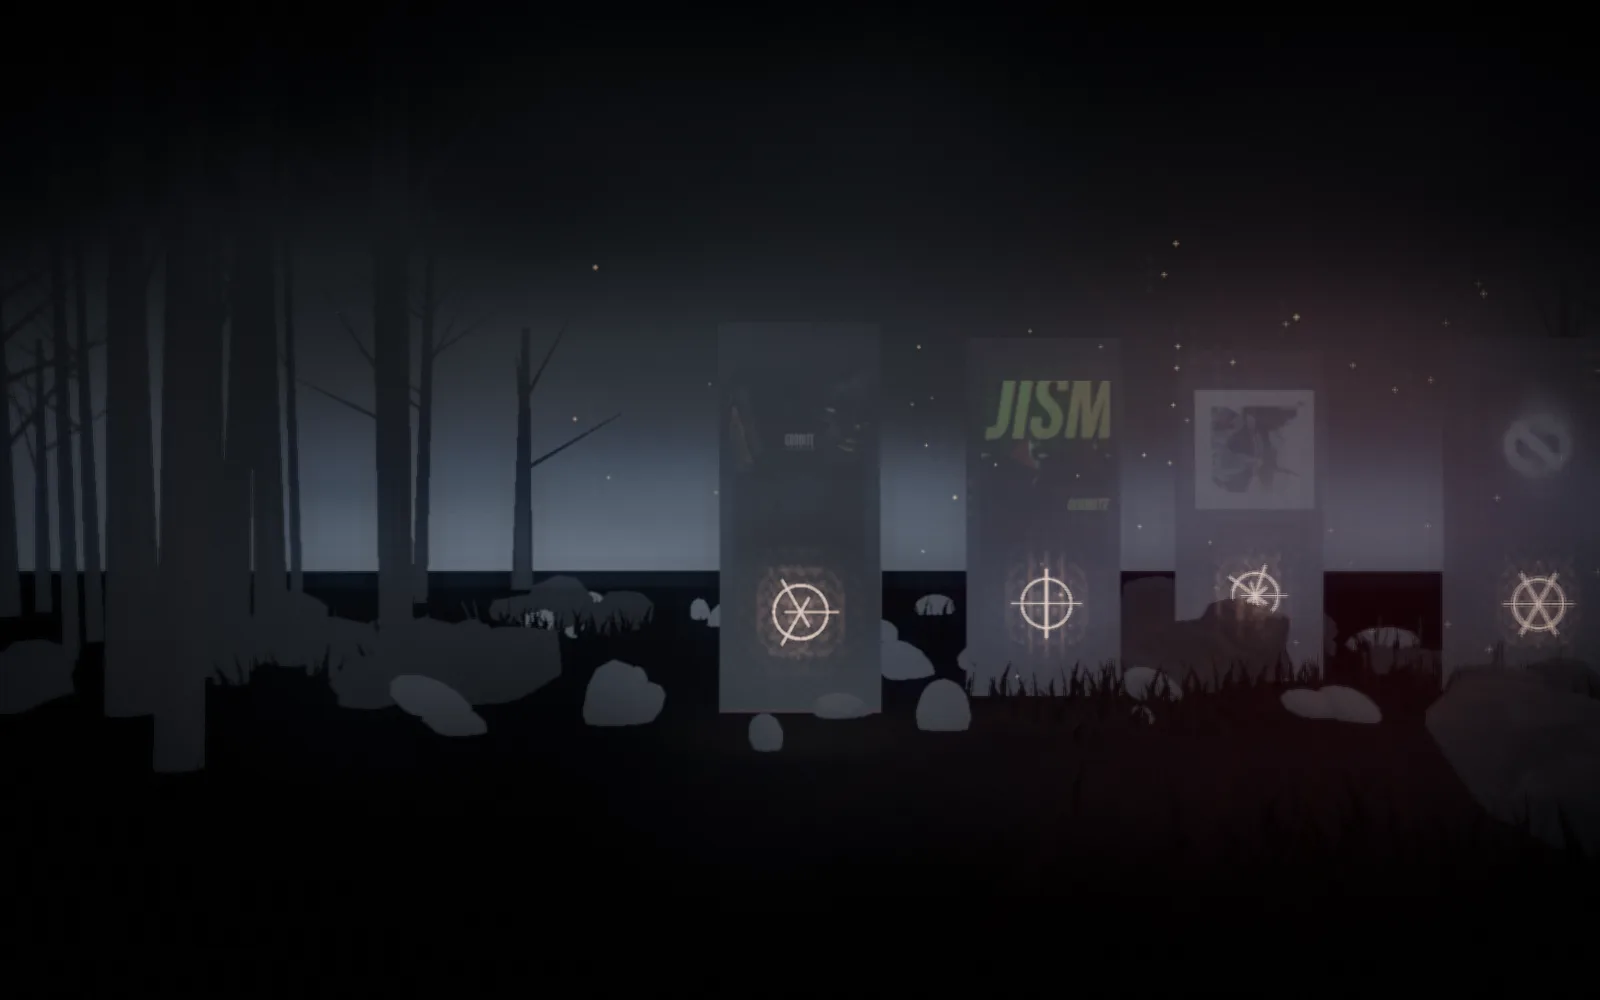
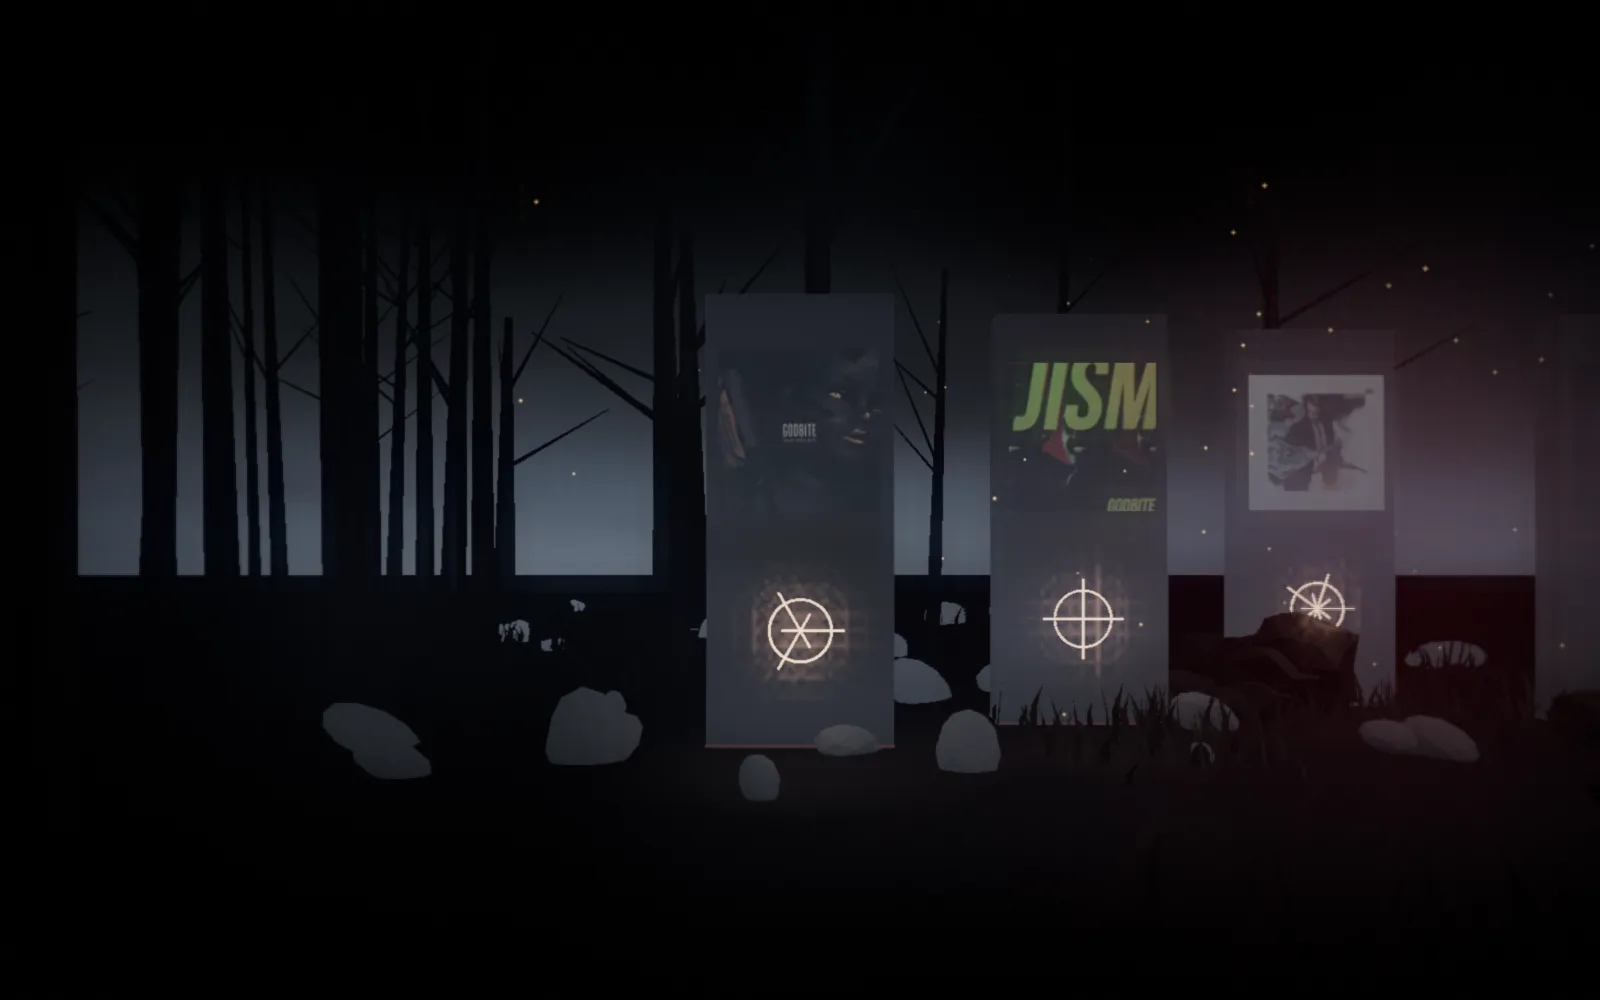
Adaptive cinema screen navigation, recording-specific tracklists, and tree clearance on dynamic routes

diff --git a/src/main.ts b/src/main.ts
@@ -3,10 +3,10 @@ import '@fontsource/bodoni-moda/latin-ext-500.css';
 import '@fontsource/ibm-plex-mono/latin-400.css';
 import '@fontsource/ibm-plex-mono/latin-ext-400.css';
 import './style.css';
-import { asset, copy, films, releases, socials } from './content';
+import { asset, copy, films, releases, socials, tracklists } from './content';
 import type { Chapter, Language } from './content';
 import { Ambient } from './ambient';
-import { SCENE_ANCHORS, chapterPresentation } from './journey';
+import { SCENE_ANCHORS, activeRecording, chapterPresentation } from './journey';
 import type { World } from './world';
 
 const $ = <T extends HTMLElement = HTMLElement>(selector: string) => document.querySelector<T>(selector)!;
@@ -18,6 +18,7 @@ const reducedMotion = matchMedia('(prefers-reduced-motion: reduce)');
 let language: Language = 'en';
 try { if (localStorage.getItem('godbite-language') === 'pl') language = 'pl'; } catch { /* Storage can be unavailable in private browser contexts. */ }
 let selectedRelease = 0;
+let currentRecording = -1;
 let selectedFilm = films[0];
 
 let lastInvoker: HTMLElement | null = null;
@@ -55,9 +56,21 @@ releases.forEach((release,index)=>{
   const number=document.createElement('span'),title=document.createElement('span'),year=document.createElement('span');
   number.className='release-list-no';number.textContent=String(index+1).padStart(2,'0');
   title.className='release-list-title';title.textContent=release.title;
+  title.id='release-label-'+release.id;
   year.className='release-list-year';year.textContent=String(release.year)+' ↗';
   button.dataset.release=release.id;button.append(number,title,year);
-  button.addEventListener('click',()=>openRelease(index));item.append(button);releaseList.append(item);
+  const drawer=document.createElement('div'),inner=document.createElement('div'),tracks=document.createElement('ol');
+  drawer.className='release-track-drawer';drawer.inert=true;drawer.setAttribute('aria-hidden','true');
+  inner.className='release-track-inner';tracks.className='release-tracks';tracks.setAttribute('aria-labelledby',title.id);
+  (tracklists[release.id]??[]).forEach(([name,duration],number)=>{
+    const row=document.createElement('li'),position=document.createElement('span'),label=document.createElement('span'),time=document.createElement('span');
+    position.className='track-number';position.textContent=String(number+1).padStart(2,'0');
+    label.className='track-title';label.textContent=name;
+    time.className='track-duration';time.textContent=duration??'';
+    row.append(position,label,time);tracks.append(row);
+  });
+  inner.append(tracks);drawer.append(inner);
+  button.addEventListener('click',()=>openRelease(index));item.append(button,drawer);releaseList.append(item);
 });
 films.forEach((film,index)=>{
   const button=document.createElement('button'),title=document.createElement('span'),number=document.createElement('span');
@@ -77,6 +90,19 @@ function updateRelease() {
   if(release.spotify)container.append(link('Spotify',release.spotify));
   container.append(link('Bandcamp',release.bandcamp));
   $('#release-position').textContent=String(selectedRelease+1).padStart(2,'0')+' / 05';
+}
+function showRecording(index: number){
+  if(index===currentRecording)return;
+  currentRecording=index;
+  const release=releases[index];
+  document.body.dataset.currentRecording=release.id;
+  releaseList.querySelectorAll('button').forEach((button,item)=>{
+    button.classList.toggle('is-current',item===index);
+    button.parentElement!.classList.toggle('is-current',item===index);
+    const drawer=button.parentElement!.querySelector<HTMLElement>('.release-track-drawer')!;
+    drawer.inert=item!==index;drawer.setAttribute('aria-hidden',String(item!==index));
+    if(item===index)button.setAttribute('aria-current','true');else button.removeAttribute('aria-current');
+  });
 }
 function syncModalState() {
   const open=dialogs.some(dialog=>dialog.open);
@@ -101,6 +127,7 @@ function selectFilm(id: string) {
   $('#film-kind').textContent=copy[language][selectedFilm.kind==='video'?'film':'visualiser'];
   filmList.querySelectorAll('button').forEach(button=>button.setAttribute('aria-pressed',String(button.dataset.film===id)));
   world?.selectFilm(id);
+  if(stillMode)updateStill();
 }
 function openFilm(id: string) {
   selectFilm(id);
@@ -112,6 +139,12 @@ function openFilm(id: string) {
   frame.allow='autoplay; encrypted-media; picture-in-picture; fullscreen';frame.allowFullscreen=true;
   frame.referrerPolicy='strict-origin-when-cross-origin';
   $('#film-player').replaceChildren(frame);openDialog(filmDialog);
+}
+for(const [selector,direction] of [['#previous-film',-1],['#next-film',1]] as const){
+  $(selector).addEventListener('click',()=>{
+    const index=films.findIndex(film=>film.id===selectedFilm.id);
+    selectFilm(films[(index+direction+films.length)%films.length].id);
+  });
 }
 dialogs.forEach(dialog=>{
   dialog.querySelector<HTMLButtonElement>('[data-close]')!.addEventListener('click',()=>dialog.close());
@@ -166,6 +199,7 @@ function translate() {
   document.querySelectorAll<HTMLButtonElement>('[data-lang]').forEach(button=>button.setAttribute('aria-pressed',String(button.dataset.lang===language)));
   document.querySelector('.language-switch')!.setAttribute('aria-label',text.language);
   releaseList.setAttribute('aria-label',text.selectRelease);filmList.setAttribute('aria-label',text.chooseFilm);
+  $('#previous-film').setAttribute('aria-label',text.previousFilm);$('#next-film').setAttribute('aria-label',text.nextFilm);
   document.querySelectorAll('[data-close]').forEach(button=>button.setAttribute('aria-label',text.close));
   $('#previous-release').setAttribute('aria-label',text.previous);$('#next-release').setAttribute('aria-label',text.next);
   $('#chapter-name').textContent=text[chapterKeys[currentChapter]];
@@ -188,6 +222,11 @@ function progress(){
   return 3;
 }
 let scrollPending=false;
+function updateStill(){
+  const scene=chapters[currentChapter];
+  const image=scene==='cinema'&&selectedFilm.id!==films[0].id?'cinema-'+selectedFilm.id:scene;
+  still.style.backgroundImage='url("'+asset('images/'+image+'.webp')+'")';
+}
 function updateJourney() {
   scrollPending=false;
   const p=progress(),{index,opacity}=chapterPresentation(p);
@@ -207,7 +246,8 @@ function updateJourney() {
     if(anchor.dataset.nav===chapters[index])anchor.setAttribute('aria-current','location');
     else anchor.removeAttribute('aria-current');
   });
-  if(stillMode)still.style.backgroundImage='url("'+asset('images/'+chapters[index]+'.webp')+'")';
+  if(stillMode)updateStill();
+  if(!world)showRecording(activeRecording(p));
   world?.setProgress(p);ambient.setProgress(p);
 }
 function requestJourney() { if(!scrollPending){scrollPending=true;requestAnimationFrame(updateJourney);} }
@@ -260,8 +300,7 @@ async function startWorld() {
     const {World}=await import('./world');
     if(generation!==worldGeneration || reducedMotion.matches)return;
     world=new World({canvas:$<HTMLCanvasElement>('#world-canvas'),onFailure:useStills,onRelease:openRelease,onFilm:()=>openFilm(selectedFilm.id),onRecording:index=>{
-      document.body.dataset.currentRecording=releases[index].id;
-      releaseList.querySelectorAll('button').forEach((button,item)=>button.classList.toggle('is-current',item===index));
+      showRecording(index);
     }});
     stillMode=false;document.body.classList.remove('still-mode');
     world.setProgress(progress());world.setPaused(userPaused);

diff --git a/tests/journey.spec.ts b/tests/journey.spec.ts
@@ -42,6 +42,28 @@ test('five recordings, latest listening in two clicks and dialog keyboard behavi
   await expect(page.locator('#release-title')).toHaveText('Mir');
   await expect(page.locator('#art-credit')).toContainText('Artur Ciechorski');
 });
+
+for(const reducedMotion of ['no-preference','reduce'] as const){
+ test(`tracklist unfolds beneath the current recording (${reducedMotion})`,async({page})=>{
+  await page.emulateMedia({reducedMotion});await page.goto('./');
+  await page.locator('[data-nav=music]').click();await page.keyboard.press('Escape');
+  await expect(page.locator('.recording-panel')).toHaveCount(0);
+  for(const [index,title,count,first,duration] of [
+   [0,'Social Media Girls',1,'Social Media Girls','08:21'],[1,'JISM',3,'DICK PUMP','07:27'],
+   [2,'Mir',9,"Walkin' Phoenix",'05:28'],[3,'the Aristocrats',9,'David Lynch','05:08'],[4,'You can lead a horse EP',3,'you can lead a horse',''],
+  ] as const){
+   await page.evaluate(index=>{const music=document.getElementById('music')!.offsetTop,cinema=document.getElementById('cinema')!.offsetTop;window.scrollTo({top:music+(cinema-music)*index*.13/.84,behavior:'instant'});},index);
+   const current=page.locator('#release-list>li.is-current');
+   await expect(current.locator('.release-list-title')).toHaveText(title);
+   await expect(current.locator('.release-tracks li')).toHaveCount(count);
+   await expect(current.locator('.track-title').first()).toHaveText(first);
+   await expect(current.locator('.track-duration').first()).toHaveText(duration);
+   await expect(current.locator('.release-track-drawer')).toHaveAttribute('aria-hidden','false');
+   await expect(page.locator('.release-track-drawer[aria-hidden=false]')).toHaveCount(1);
+   if(index===2){await page.waitForTimeout(500);await page.screenshot({path:`test-results/track-drawer-${page.viewportSize()!.width}-${reducedMotion}.png`});}
+  }
+ });
+}
 test('all four films use the right player and closing removes playback',async({page})=>{
   await page.goto('./');await page.locator('[data-nav=cinema]').click();
   await expect(page.locator('.cinema-stage')).toBeVisible();
@@ -52,6 +74,31 @@ test('all four films use the right player and closing removes playback',async({p
     await expect(page.locator('#external-film')).toHaveAttribute('href','https://www.youtube.com/watch?v='+youtube);
     await page.keyboard.press('Escape');await expect(page.locator('iframe')).toHaveCount(0);
   }
+});
+
+test('cinema screen changes for every film while motion is paused',async({page},testInfo)=>{
+ test.skip(testInfo.project.name!=='chrome','Exercise the rendered screen in desktop Chromium.');
+ await page.goto('./');await expect(page.locator('body')).toHaveClass(/scene-ready/);
+ await page.locator('[data-nav=cinema]').click();
+ await page.locator('#motion-toggle').click();await page.waitForTimeout(2000);
+ const viewport=page.viewportSize()!;
+ const clip={x:viewport.width*.4,y:viewport.height*.36,width:viewport.width*.2,height:viewport.height*.18};
+ let previous=await page.screenshot({clip});
+ for(const id of ['walkin-phoenix','tarrare-52','elbow-grease','social-media-girls','walkin-phoenix']){
+  await page.locator('[data-film='+id+']').click();
+  await expect.poll(async()=>!(await page.screenshot({clip})).equals(previous)).toBe(true);
+  previous=await page.screenshot({clip});
+ }
+});
+
+test('static cinema changes to the selected film',async({page})=>{
+ await page.emulateMedia({reducedMotion:'reduce'});await page.goto('./');
+ await page.locator('[data-nav=cinema]').click();
+ for(const id of ['walkin-phoenix','tarrare-52','elbow-grease']){
+  await page.locator('[data-film='+id+']').click();
+  await expect(page.locator('#still-world')).toHaveCSS('background-image',new RegExp('cinema-'+id+'\\.webp'));
+  const response=await page.request.get('images/cinema-'+id+'.webp');expect(response.ok()).toBe(true);
+ }
 });
 test('Polish translation persists and booking stays directly available',async({page})=>{
   await page.goto('./');await page.locator('[data-lang=pl]').click();

diff --git a/src/content.ts b/src/content.ts
@@ -4,6 +4,13 @@ export interface Release {
   id: string; title: string; year: number; kind: 'album' | 'ep' | 'single';
   cover: string; bandcamp: string; spotify?: string; artwork?: string;
 }
+export const tracklists: Record<string, readonly (readonly [string,string?])[]> = {
+  'social-media-girls': [['Social Media Girls','08:21']],
+  jism: [['DICK PUMP','07:27'],['SHIT MOUTH','06:45'],['CUM RAG','10:01']],
+  mir: [["Walkin' Phoenix",'05:28'],['Toiler','06:14'],['Piecekeeper','08:20'],['The World Beneath the World','07:28'],['Impostor','05:27'],['Elbow Grease','05:01'],['Shibboleth','07:11'],['Pentecost','05:20'],['Tarrare 52','07:00']],
+  'the-aristocrats': [['David Lynch','05:08'],['You Can Lead a Horse','04:28'],['Mothermeat','03:08'],['Camwhore','07:20'],['Bear in Mind','06:20'],['My Home Is Yours','07:00'],["Schrödinger's Scat",'05:29'],['Red Herring','02:00'],['Till the Cows Come Home','04:55']],
+  horse: [['you can lead a horse'],['sedative'],['bear in mind']],
+};
 export interface Film {
   id: string; title: string; youtubeId: string; kind: 'video' | 'visualiser';
 }
@@ -37,7 +44,7 @@ export const copy = {
     musicTitle: 'Five offerings.', musicIntro: 'Something of us remains in every recording.',
     selectRelease: 'Choose a recording', album: 'Album', ep: 'EP', single: 'Single',
     listenOn: 'Listen on', close: 'Close', previous: 'Previous recording', next: 'Next recording',
-    film: 'Official music video', visualiser: 'Official visualiser', chooseFilm: 'Choose a film',
+    film: 'Official music video', visualiser: 'Official visualiser', chooseFilm: 'Choose a film', previousFilm: 'Previous film', nextFilm: 'Next film',
     contactTitle: 'Let it in.', booking: 'Booking / Contact',
     bio: 'Five bodies. An appetite for ritual. Progressive rock and metal from Szczecin, Poland.',
     poem: 'The nets tangle the fingers that wove them.', credits: 'Credits',
@@ -57,7 +64,7 @@ export const copy = {
     musicTitle: 'Pięć ofiar.', musicIntro: 'Coś z nas zostaje w każdym nagraniu.',
     selectRelease: 'Wybierz nagranie', album: 'Album', ep: 'EP', single: 'Singiel',
     listenOn: 'Słuchaj na', close: 'Zamknij', previous: 'Poprzednie nagranie', next: 'Następne nagranie',
-    film: 'Oficjalny teledysk', visualiser: 'Oficjalna wizualizacja', chooseFilm: 'Wybierz film',
+    film: 'Oficjalny teledysk', visualiser: 'Oficjalna wizualizacja', chooseFilm: 'Wybierz film', previousFilm: 'Poprzedni film', nextFilm: 'Następny film',
     contactTitle: 'Wpuść nas.', booking: 'Booking / Kontakt',
     bio: 'Pięć osób. Potrzeba rytuału. Progresywny rock i metal ze Szczecina.',
     poem: 'Sieci plączą palce, którymi były utkane.', credits: 'Autorzy',

diff --git a/src/style.css b/src/style.css
@@ -53,3 +53,6 @@ body[data-chapter=music] .world-shade{background:linear-gradient(180deg,rgba(0,0
 
 @media(max-width:800px){body[data-chapter=music] .chapter-heading h2{font-size:28px;margin:12px 0}body[data-chapter=music] .section-whisper{display:none}body[data-chapter=music] .release-list{bottom:126px}body[data-chapter=music] .release-list button{padding:8px 0}}
 .credits-manifesto{font-family:var(--serif);font-size:18px;line-height:1.7}.credits-invocation{font-size:10px;line-height:1.9;letter-spacing:.04em;color:var(--bone);padding:22px 0;border-top:1px solid #e8e3d822;border-bottom:1px solid #e8e3d822}
+.cinema-selection{min-width:0}.cinema-title-row{display:flex;align-items:center;gap:12px;margin-top:14px}.cinema-title-row h2{margin:0;min-width:0;overflow-wrap:anywhere}.film-chevron{display:flex;align-items:center;justify-content:center;flex:0 0 36px;width:36px;height:44px;color:var(--muted);transition:color .2s}.film-chevron:hover{color:var(--bone)}.film-chevron svg{width:10px;height:18px;fill:none;stroke:currentColor;stroke-width:1.5;stroke-linecap:round;stroke-linejoin:round}@media(max-width:800px){.cinema-selection{width:100%}.cinema-title-row{gap:4px;margin-top:8px}.cinema-title-row h2{font-size:clamp(26px,8vw,38px);margin:0}.film-chevron{flex-basis:28px;width:28px}}
+.release-list{max-height:calc(100svh - 220px);overflow-y:auto;scrollbar-width:thin;scrollbar-color:var(--muted) transparent}.release-track-drawer{display:grid;grid-template-rows:0fr;opacity:0;transition:grid-template-rows .35s ease,opacity .25s ease}.release-list>li.is-current .release-track-drawer{grid-template-rows:1fr;opacity:1}.release-track-inner{min-height:0;overflow:hidden}.release-tracks{list-style:none;margin:0;padding:0 0 12px 39px}.release-tracks li{display:grid;grid-template-columns:17px minmax(0,1fr) 36px;gap:8px;align-items:baseline;border:0;padding:3px 0;line-height:1.4}.track-number,.track-duration{font-size:8px;color:var(--muted);font-variant-numeric:tabular-nums}.track-title{font-family:var(--mono);font-size:10px;color:var(--muted)}.track-duration{text-align:right}@media(max-width:800px){.release-tracks{padding-left:36px}.track-title{font-size:9px}.release-tracks li{padding:2px 0}}@media(prefers-reduced-motion:reduce){.release-track-drawer{transition:none}}
+.release-tracks li{font-size:10px;line-height:1.5}@media(min-width:801px){.release-list button{padding:12px 0}}@media(max-width:800px){.release-tracks li{font-size:9px}}

diff --git a/index.html b/index.html
@@ -43,17 +43,21 @@
         </div>
       </div>
     </section>
-    <section id="music" class="chapter" aria-labelledby="music-title">
+    <section id="music" class="chapter" aria-labelledby="music-label">
       <div class="chapter-stage music-stage" hidden>
-        <div class="chapter-heading"><p class="eyebrow"><span class="red-dot"></span> II / <span data-i18n="music">The ritual</span></p><h2 id="music-title" data-i18n="musicTitle">Five offerings.</h2><p class="section-whisper" data-i18n="musicIntro">Something of us remains in every recording.</p></div>
-        <ol id="release-list" class="release-list" aria-label="Choose a recording"></ol><span class="ritual-line" aria-hidden="true"></span>
+        <div class="chapter-heading"><p class="eyebrow"><span class="red-dot"></span> II / <span id="music-label" data-i18n="music">The ritual</span></p></div>
+        <ol id="release-list" class="release-list" aria-label="Choose a recording"></ol>
       </div>
     </section>
     <section id="cinema" class="chapter" aria-labelledby="cinema-title">
       <div class="chapter-stage cinema-stage" hidden>
         <p class="eyebrow cinema-label"><span class="red-dot"></span> III / <span data-i18n="cinema">The cinema</span></p>
         <button id="cinema-play" class="projection-play"><span class="play-circle" aria-hidden="true">▷</span><span data-i18n="play">Play film</span></button>
-        <div class="cinema-lower"><div><p id="film-kind" class="eyebrow">Official music video</p><h2 id="cinema-title">Social Media Girls</h2></div><div id="film-list" class="film-list" role="group" aria-label="Choose a film"></div></div>
+        <div class="cinema-lower"><div class="cinema-selection"><p id="film-kind" class="eyebrow">Official music video</p><div class="cinema-title-row">
+          <button id="previous-film" class="film-chevron" type="button" aria-label="Previous film"><svg viewBox="0 0 12 20" aria-hidden="true"><path d="M9 3 2 10l7 7"/></svg></button>
+          <h2 id="cinema-title" aria-live="polite">Social Media Girls</h2>
+          <button id="next-film" class="film-chevron" type="button" aria-label="Next film"><svg viewBox="0 0 12 20" aria-hidden="true"><path d="m3 3 7 7-7 7"/></svg></button>
+        </div></div><div id="film-list" class="film-list" role="group" aria-label="Choose a film"></div></div>
       </div>
     </section>
     <section id="contact" class="chapter" aria-labelledby="contact-title">

diff --git a/src/world.ts b/src/world.ts
@@ -1,7 +1,7 @@
 import * as THREE from 'three';
 import { asset, films, releases } from './content';
 import { CinematicLens } from './cinematic';
-import { cameraRoute, activeRecording, forestDoor, interiorLayout, interiorPoint, scenePresence, CAMERA_HEIGHT } from './journey';
+import { cameraRoute, activeRecording, forestDoor, forestTreePosition, interiorLayout, interiorPoint, scenePresence, CAMERA_HEIGHT } from './journey';
 
 const clamp = THREE.MathUtils.clamp;
 const smooth = THREE.MathUtils.smoothstep;
@@ -220,10 +220,11 @@ export class World {
     let branchIndex=0;
     for (let i=0;i<165;i++) {
       let x=(random()-.5)*68;
-      const z=i>=120?-38-random()*38:14-random()*82;
+      let z=i>=120?-38-random()*38:14-random()*82;
       if (Math.abs(x)<4.3) x+=(x<0?-1:1)*(5+random()*5);
       if(z< -28 && Math.abs(x)<17) x+=(x<0?-1:1)*15;
       if(i>=120)x=i%2===0?-8-random()*10:29+random()*10;
+      [x,z]=forestTreePosition(x,z,i);
       const height=8+random()*13, width=.55+random()*1.05;
       object.position.set(x,height/2,z); object.rotation.set((random()-.5)*.055,random()*6,(random()-.5)*.09);
       object.scale.set(width,height,width); object.updateMatrix(); trunks.setMatrixAt(i,object.matrix);
@@ -567,6 +568,7 @@ export class World {
     this.selectedFilm=id;
     const apply=(texture: THREE.Texture)=>{
       for(const screen of this.screens){screen.material.map=texture;screen.material.color.setScalar(1.05);screen.material.needsUpdate=true;}
+      if(this.paused)this.draw();
     };
     const cached=this.filmTextures.get(id);
     if(cached){apply(cached);return;}

diff --git a/tests/journey-route.spec.ts b/tests/journey-route.spec.ts
@@ -6,6 +6,22 @@ const route=ts.transpileModule(readFileSync(new URL('../src/journey.ts',import.m
  compilerOptions:{target:ts.ScriptTarget.ES2022,module:ts.ModuleKind.ESNext},
 }).outputText.replace(/\bexport /g,'');
 
+test('trees on the gallery exit arc move behind the records and clear both camera routes',async({page})=>{
+ await page.addScriptTag({content:route+'\nwindow.godbiteRoute={forestTreePosition,cameraRoute};'});
+ const trees=await page.evaluate(()=>{
+  const {forestTreePosition,cameraRoute}=(window as any).godbiteRoute;
+  return [[18,-43],[20,-48],[22,-56],[16.5,-60],[22,-64]].map(([x,z],index)=>{
+   const relocated=forestTreePosition(x,z,index);
+   const distance=Math.min(...[false,true].flatMap(mobile=>Array.from({length:2001},(_,i)=>{
+    const point=cameraRoute(i/1000,mobile).position;
+    return Math.hypot(relocated[0]-point[0],relocated[1]-point[2]);
+   })));
+   return {relocated,distance};
+  });
+ });
+ for(const tree of trees){expect(tree.relocated[1]).toBeLessThan(-48);expect(tree.distance).toBeGreaterThan(5.4);}
+});
+
 test('the forest door and first stone stay on the central forward axis',async({page})=>{
  await page.addScriptTag({content:route+'\nwindow.godbiteRoute={cameraRoute,forestDoor};'});
  const result=await page.evaluate(()=>{

diff --git a/src/journey.ts b/src/journey.ts
@@ -82,6 +82,18 @@ export function cameraRoute(progress:number,mobile:boolean){
   target:interiorPoint(interpolate(stops,index,'target',t),mobile),lookAround};
 }
 
+const cameraClearancePoints=[false,true].flatMap(mobile=>
+ Array.from({length:401},(_,index)=>cameraRoute(index/200,mobile).position));
+
+/** Keep trunks, leaning tops and branches outside both viewport routes. */
+export function forestTreePosition(x:number,z:number,index:number):[number,number]{
+ const clear=(a:number,b:number)=>cameraClearancePoints.every(point=>Math.hypot(a-point[0],b-point[2])>5.5);
+ if(clear(x,z))return [x,z];
+ const behindX=-3+(index%7)*3.4,behindZ=-58-(Math.floor(index/7)%4)*3;
+ if(clear(behindX,behindZ))return [behindX,behindZ];
+ return [-9-(index%5)*2,-55-(index%7)*3];
+}
+
 /** Fade both geometry and its lights; never replace a room or its mist in a single frame. */
 export function scenePresence(progress:number){
  return {forest:1-fade(progress,1.76,1.94),gallery:fade(progress,.68,.88)*(1-fade(progress,1.88,2.1)),
